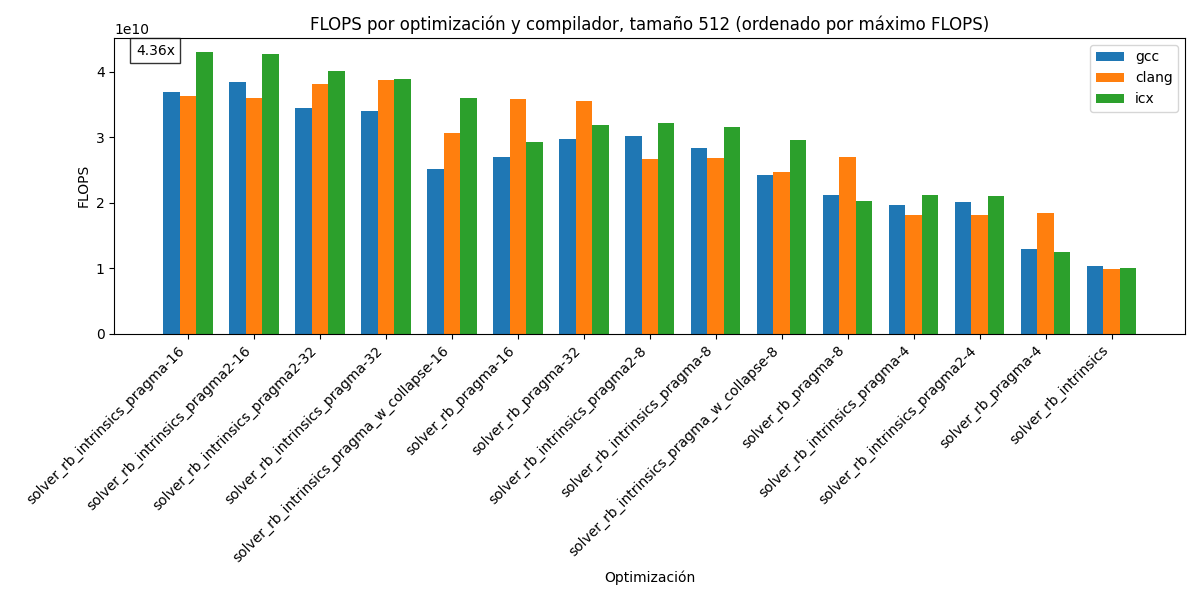
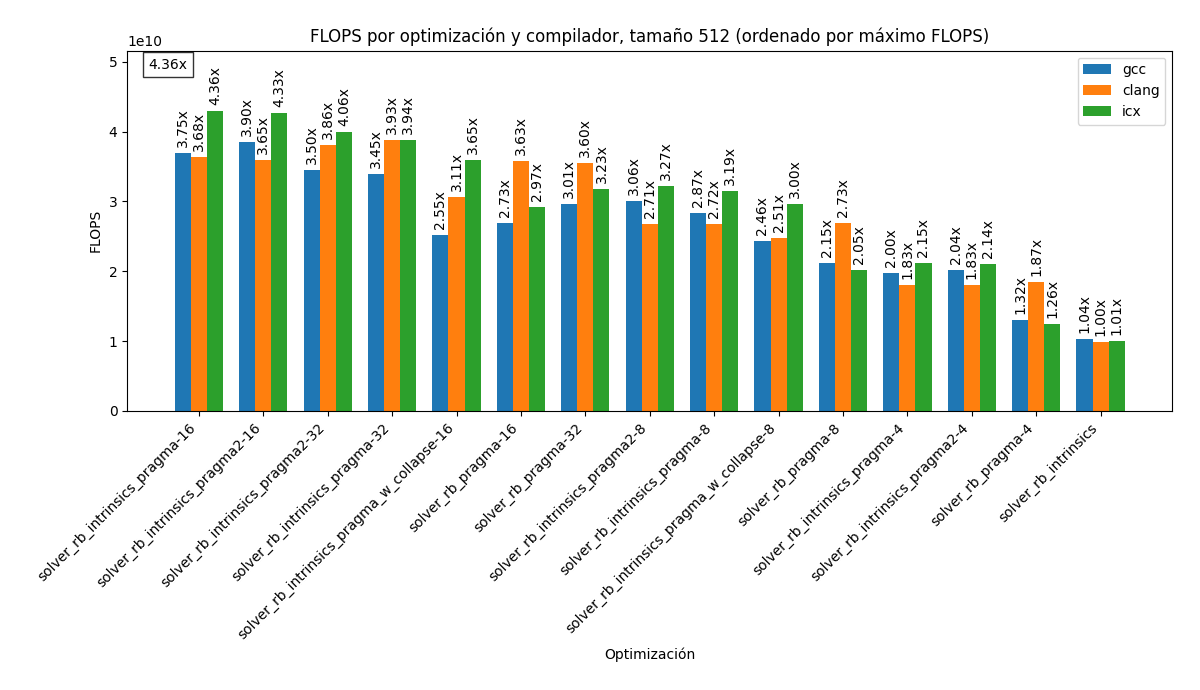
no puedo

diff --git a/tp3/graphics/graphic_flops.py b/tp3/graphics/graphic_flops.py
@@ -32,8 +32,21 @@ for label in set().union(*[set(df[0].str.strip()) for df in data.values()]):
 # Sort labels by their maximum values
 labels = sorted(opt_max_values.keys(), key=lambda x: opt_max_values[x], reverse=True)
 
+# Calculate min_flops before creating the plot
+all_values = []
+for df in data.values():
+    all_values.extend(df['result'].values)
+max_flops = max(all_values)
+min_flops = min(all_values)
+max_speedup = max_flops / min_flops
+
+# Calculate appropriate figure height
+base_height = 6
+label_space = max_flops * 0.15  # Increased space for labels
+total_height = base_height + (label_space / max_flops) * base_height
+
 # Create the plot
-plt.figure(figsize=(12, 6))
+plt.figure(figsize=(12, total_height))
 
 # Set width of bars and positions of the bars
 barWidth = 0.25
@@ -51,12 +64,23 @@ for i, (compiler, df) in enumerate(data.items()):
         else:
             value = 0
         values.append(value)
-    plt.bar(positions, values, width=barWidth, label=compiler)
+    bars = plt.bar(positions, values, width=barWidth, label=compiler)
+    
+    # Add speedup text above each bar
+    for bar, value in zip(bars, values):
+        if value > 0:  # Only show speedup for non-zero values
+            speedup = value / min_flops
+            plt.text(bar.get_x() + bar.get_width()/2, bar.get_height() + max_flops * 0.02,
+                    f'{speedup:.2f}x',
+                    ha='center', va='bottom', rotation=90)
 
 # Add labels and title
 plt.xlabel('Optimización')
 plt.ylabel('FLOPS')
 plt.title(f"FLOPS por optimización y compilador, tamaño {size} (ordenado por máximo FLOPS)")
+
+# Set y-axis limits to include space for labels
+plt.ylim(0, max_flops * 1.2)  # Add 20% more space at the top
 
 # Add xticks on the middle of the group bars
 plt.xticks([r + barWidth for r in range(len(labels))], labels, rotation=45, ha='right')
@@ -64,18 +88,11 @@ plt.xticks([r + barWidth for r in range(len(labels))], labels, rotation=45, ha='
 # Add legend
 plt.legend()
 
-# Adjust layout
-plt.tight_layout()
+# Adjust layout with more padding at the top
+plt.tight_layout(pad=2.0)
 
-# Calculate and display the speedup ratio
-all_values = []
-for df in data.values():
-    all_values.extend(df['result'].values)
-max_flops = max(all_values)
-min_flops = min(all_values)
-speedup = max_flops / min_flops
-
-plt.text(0.02, 0.98, f'{speedup:.2f}x', 
+# Display the highest speedup ratio in the corner
+plt.text(0.02, 0.98, f'{max_speedup:.2f}x', 
          transform=plt.gca().transAxes,
          verticalalignment='top',
          bbox=dict(facecolor='white', alpha=0.8))
